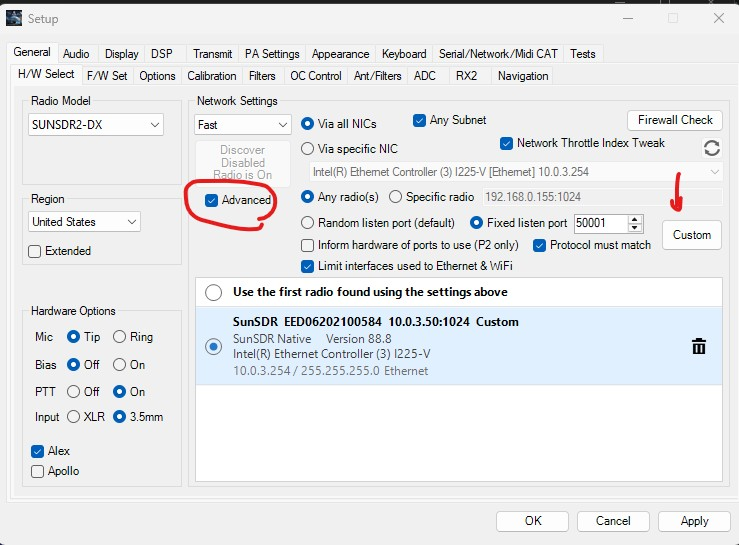
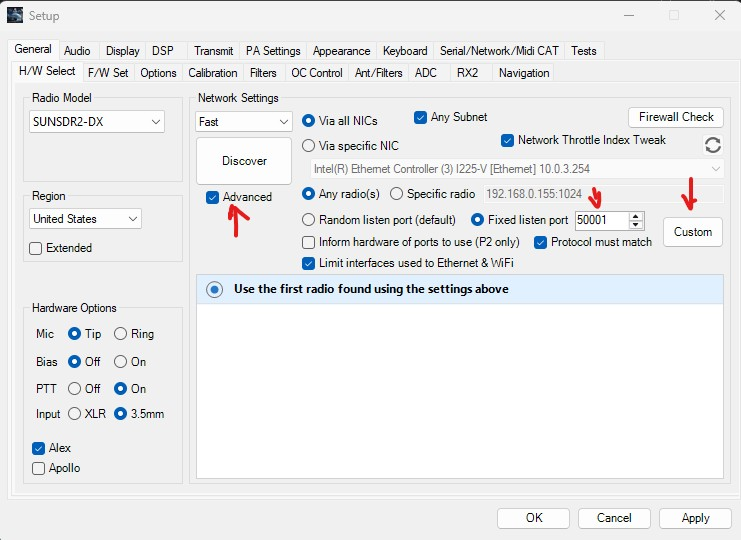
docs: emphasise port match + clean state in Step 3a screenshot
Two changes:

1. Replaced docs/setup-hw-select.png with a clean version that shows:
   - empty radio list (no preexisting Custom entry, so the screenshot
     matches what a first-time user actually sees)
   - third red arrow pointing at "Fixed listen port = 50001" — this
     port MUST match the radio's actual control port for the connect
     handshake to succeed

2. Added a strong port-match callout under the Step 3a screenshot
   explaining the difference between Fixed listen port (control port,
   default 50001) and the IP:Port shown in the radio entry (the
   discovery/data port, default 1024). Both must match what the radio
   is actually configured for.

3. Step 3b table row for Radio IP:Port now also notes that a non-default
   port must be typed in explicitly as "IP:port".

4. The "if it doesn't connect" troubleshooting list now calls out both
   ports explicitly.

5. Quick Checklist updated to mention port confirmation in Step 3.

diff --git a/START_HERE_SUNSDR2DX.md b/START_HERE_SUNSDR2DX.md
@@ -43,9 +43,11 @@ Go to: `Setup -> H/W Select`
 2. Tick the **`Advanced`** checkbox (red circle in the screenshot).
 3. Click the **`Custom`** button on the right (red arrow).
 
-![Setup → H/W Select with Advanced checkbox ticked and Custom button](docs/setup-hw-select.png)
+![Setup → H/W Select with Advanced checkbox ticked, Fixed listen port highlighted, and Custom button](docs/setup-hw-select.png)
 
-*Setup → H/W Select. Tick `Advanced`, then click `Custom` to open the Add Custom Radio dialog. Once added, your radio shows up as a `Custom` entry like the green-highlighted `SunSDR EED…` row above.*
+*Setup → H/W Select on a fresh install (radio list still empty). The three red arrows mark, in order: tick `Advanced`, confirm `Fixed listen port` matches your radio's port, then click `Custom` to open the Add Custom Radio dialog.*
+
+> **🔌 Critical: the `Fixed listen port` MUST match your radio's actual port.** In the screenshot above the field reads `50001` — that is the default the SunSDR2 DX uses. **If you changed your radio's listen port from the default in ExpertSDR or via the radio's hardware config, you MUST set the same number here.** A mismatched port will cause every connect attempt to silently time out — the radio simply never hears ArtemisSDR. The radio's port is the same one shown in your old ExpertSDR setup (commonly `50001`) and the same `1024` you'll add to the `Radio IP:Port` field in Step 3b is the **discovery / data port**, not the control port. The two ports are different things and both have to match what your radio is actually using.
 
 ### Step 3b — Fill in the Add Custom Radio dialog
 
@@ -56,7 +58,7 @@ The Add Custom Radio dialog opens. Fill in the four fields:
 | Field | Value | Notes |
 |---|---|---|
 | **Via NIC** | **The LAN adapter that is on the same subnet as your radio** | This is critical — see the call-out below. |
-| **Radio IP:Port** | `<your radio's IP>` (e.g. `10.0.3.50`) | Only the IP — port `1024` is the default and is appended automatically. Find your radio's IP from your router, your old ExpertSDR config, or by pinging the radio if you know the address. |
+| **Radio IP:Port** | `<your radio's IP>` (e.g. `10.0.3.50`) | Only the IP — port `1024` is the default and is appended automatically. **If your radio uses a non-default port for this, you must enter `IP:port` explicitly (e.g. `10.0.3.50:2024`).** Find your radio's IP from your router, your old ExpertSDR config, or by pinging the radio if you know the address. |
 | **Protocol** | `Protocol 1` | Leave at default. |
 | **Board** | `SunSDR` | Leave at default. |
 
@@ -86,6 +88,8 @@ At this point the radio shows in the list with `Version Unknown` — that's norm
 If the title bar still shows `FW Unknown` after Power-on or the radio doesn't connect:
 
 - re-open `Setup → H/W Select` and double-check your **Via NIC** is the adapter on the same subnet as the radio
+- **double-check `Fixed listen port` matches your radio's actual control port** (default `50001`; if you changed it on the radio, you must change it here too)
+- **double-check the `Radio IP:Port` you typed in the Custom dialog matches your radio's actual IP and discovery/data port** (default `1024`)
 - confirm you can reach the radio from a command prompt: `ping <your-radio-IP>`
 - make sure no other ExpertSDR / Thetis / SDR client is running anywhere on the LAN — the SunSDR2 DX's control port is exclusive
 
@@ -208,8 +212,8 @@ The live values currently come from the SunSDR native control path during connec
 
 1. Set hardware model to `SUNSDR2-DX`
 2. Open `Setup -> H/W Select`
-3. **Tick `Advanced`** (auto-discovery does not work for SunSDR2 DX — manual add is required)
-4. Click **`Custom`** → fill in **Via NIC** (the LAN adapter on the radio's subnet) and **Radio IP:Port** (e.g. `10.0.3.50`) → leave Protocol/Board at defaults → click `Add`
+3. **Tick `Advanced`** (auto-discovery does not work for SunSDR2 DX — manual add is required). **Confirm `Fixed listen port` (default `50001`) matches your radio's actual control port.**
+4. Click **`Custom`** → fill in **Via NIC** (the LAN adapter on the radio's subnet) and **Radio IP:Port** (e.g. `10.0.3.50` — port `1024` is the default; if your radio uses a different one, type `IP:port` explicitly) → leave Protocol/Board at defaults → click `Add`
 5. Back on H/W Select: click the **radio button** next to the new `Custom` entry, then click `Apply`, then `OK`
 6. Click **Power** in the main ArtemisSDR window — the radio row + title bar should refresh with live `FW` and `SN`
 7. Confirm panadapter and audio
